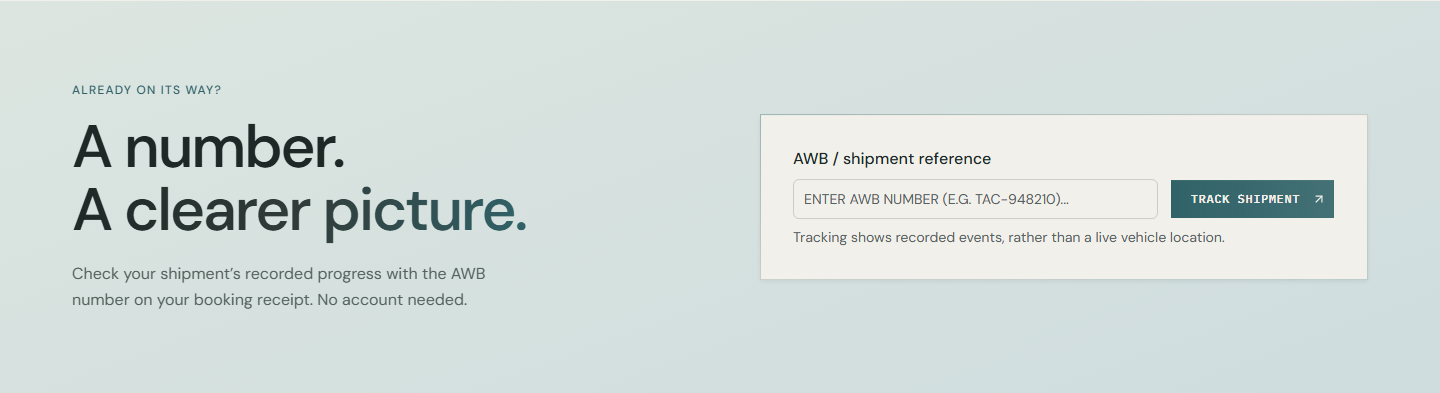
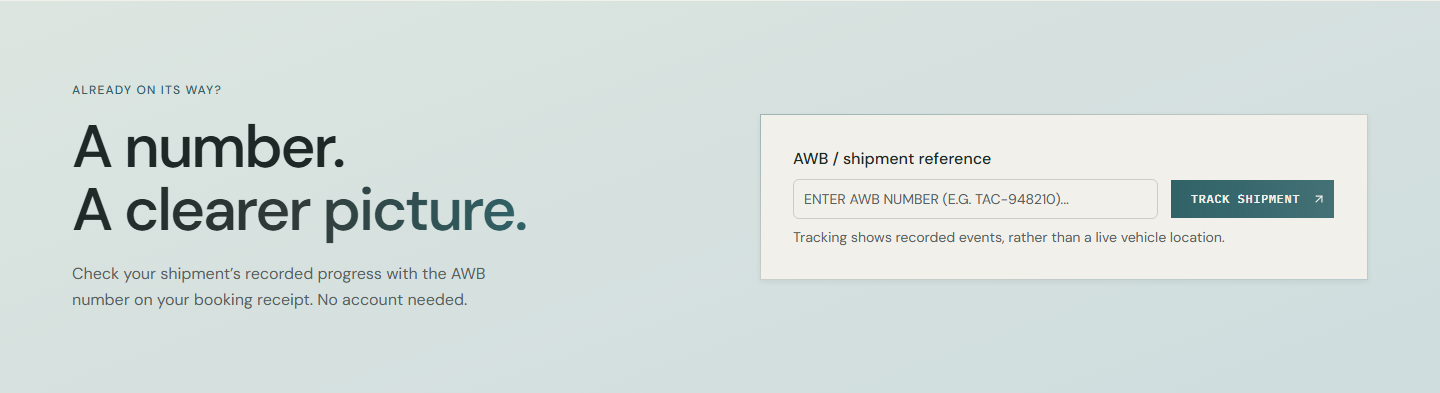
fix(ui): balance vertical rail step padding and enhance Motion scroll animations

Changed region(s): [[0.0625, 0.6718, 0.3438, 0.7939], [0.0625, 0.2137, 0.1562, 0.2443]]

diff --git a/components/public/vertical-rail.tsx b/components/public/vertical-rail.tsx
@@ -8,23 +8,48 @@ import { Check } from "lucide-react"
 /* ─────────────────────────────────────────────────────────────────────────────
    VerticalRail — track line (2px, border blend)
 ───────────────────────────────────────────────────────────────────────────── */
+/* ─────────────────────────────────────────────────────────────────────────────
+   VerticalRail — track line (2px, border blend) with animated active beam
+───────────────────────────────────────────────────────────────────────────── */
 export function VerticalRail({
   children,
   className,
+  activeStep = 0,
+  totalSteps = 4,
 }: {
   children: ReactNode
   className?: string
+  activeStep?: number
+  totalSteps?: number
 }) {
   const ref = useRef<HTMLOListElement>(null)
+  const shouldReduceMotion = useReducedMotion()
+
+  // Dynamic progress percentage along the rail track
+  const progressRatio = totalSteps > 1 ? (activeStep + 0.5) / totalSteps : 1
 
   return (
     <ol
       ref={ref}
       className={cn(
-        "cargo-rail relative ml-2 py-4 sm:ml-4 border-l-2 border-border/50",
+        "cargo-rail relative ml-2 py-2 sm:ml-4 border-l-2 border-border/40",
         className,
       )}
     >
+      {/* ── Illuminated active rail progress runner ── */}
+      <motion.div
+        aria-hidden="true"
+        className="absolute -left-[2px] top-0 w-[2px] bg-gradient-to-b from-primary via-primary to-primary/60 rounded-full"
+        initial={false}
+        animate={{
+          height: `${Math.min(100, Math.max(0, progressRatio * 100))}%`,
+        }}
+        transition={
+          shouldReduceMotion
+            ? { duration: 0 }
+            : { type: "spring", stiffness: 280, damping: 30 }
+        }
+      />
       {children}
     </ol>
   )
@@ -56,31 +81,33 @@ export function VerticalRailStep({
   return (
     <li
       className={cn(
-        "relative pb-16 pl-10 last:pb-2 sm:pl-14 transition-colors duration-300",
+        "group/step relative mb-6 last:mb-0 rounded-2xl transition-colors duration-300",
         className,
       )}
     >
-      {/* ── Active step background highlight strip with Nordic Fjord border ─────────────────────── */}
-      <div
-        aria-hidden="true"
-        className={cn(
-          "pointer-events-none absolute inset-y-0 -left-4 right-0 rounded-r-xl transition-all duration-300",
-          isActive
-            ? "bg-primary/[0.08] dark:bg-primary/[0.12] border-l-2 border-primary"
-            : "bg-transparent border-l-2 border-transparent",
-        )}
-      />
+      {/* ── Active step background highlight card with Motion layoutId ─────────────────────── */}
+      {isActive && (
+        <motion.div
+          layoutId="active-step-highlight"
+          className="pointer-events-none absolute inset-0 -left-3.5 sm:-left-4 rounded-2xl bg-primary/[0.08] dark:bg-primary/[0.14] border-l-[3px] border-primary shadow-[0_4px_24px_rgba(30,123,122,0.06)] dark:shadow-[0_8px_30px_rgba(0,0,0,0.25)]"
+          transition={
+            shouldReduceMotion
+              ? { duration: 0 }
+              : { type: "spring", stiffness: 320, damping: 32 }
+          }
+        />
+      )}
 
-      {/* ── Marker ─────────────────────────────────────────────────────── */}
+      {/* ── Marker positioned symmetrically with header line ───────────────────────────────── */}
       <span
         aria-hidden="true"
         className={cn(
-          "absolute -left-[11px] top-1 flex h-6 w-6 items-center justify-center rounded-sm transition-all duration-300 ring-4 ring-background",
+          "absolute -left-[13px] top-6 flex h-6 w-6 items-center justify-center rounded-md transition-all duration-300 ring-4 ring-background z-10",
           isActive
-            ? "bg-primary text-primary-foreground border-2 border-primary shadow-sm"
+            ? "bg-primary text-primary-foreground border-2 border-primary shadow-sm scale-105"
             : isCompleted
               ? "bg-primary/20 text-primary border-2 border-primary/50"
-              : "bg-surface text-muted-foreground border-2 border-border",
+              : "bg-surface text-muted-foreground border-2 border-border/80",
         )}
       >
         {isCompleted ? (
@@ -88,7 +115,7 @@ export function VerticalRailStep({
         ) : (
           <span
             className={cn(
-              "size-2 transition-transform duration-300 rounded-none",
+              "size-2 transition-transform duration-300 rounded-xs",
               isActive ? "bg-primary-foreground scale-100" : "bg-muted-foreground/60 scale-75",
             )}
           />
@@ -97,11 +124,11 @@ export function VerticalRailStep({
         {/* Pulsing ring — only on currently active step */}
         {isActive && !shouldReduceMotion && (
           <motion.span
-            className="absolute inset-0 rounded-sm border-2 border-primary pointer-events-none"
+            className="absolute inset-0 rounded-md border-2 border-primary pointer-events-none"
             initial={{ scale: 1, opacity: 0.8 }}
             animate={{ scale: 2.1, opacity: 0 }}
             transition={{
-              duration: 1.4,
+              duration: 1.5,
               ease: "easeOut",
               repeat: Infinity,
               repeatDelay: 0.5,
@@ -110,12 +137,12 @@ export function VerticalRailStep({
         )}
       </span>
 
-      {/* ── Content ────────────────────────────────────────────────────── */}
-      <div className="flex flex-col gap-3 md:max-w-xl">
+      {/* ── Content Container with Generous, Balanced Vertical Padding (24px top & bottom) ──── */}
+      <div className="relative z-10 flex flex-col gap-3 py-6 pl-10 pr-4 sm:pl-14 sm:pr-6 md:max-w-xl">
         {/* Step number */}
         <span
           className={cn(
-            "font-mono text-xs font-bold tracking-[0.15em] uppercase transition-colors duration-300",
+            "font-mono text-xs font-bold tracking-[0.15em] uppercase transition-colors duration-300 leading-normal",
             isActive ? "text-primary" : "text-muted-foreground",
           )}
         >
@@ -125,7 +152,7 @@ export function VerticalRailStep({
         {/* Title */}
         <h3
           className={cn(
-            "text-2xl font-semibold tracking-tight transition-all duration-300",
+            "text-2xl font-semibold tracking-tight transition-colors duration-300",
             isActive
               ? "text-foreground font-bold"
               : "text-foreground/80",
@@ -137,7 +164,7 @@ export function VerticalRailStep({
         {/* Body */}
         <p
           className={cn(
-            "leading-relaxed text-sm sm:text-base transition-all duration-300",
+            "leading-relaxed text-sm sm:text-base transition-colors duration-300",
             isActive ? "text-foreground/90 font-normal" : "text-muted-foreground",
           )}
         >

diff --git a/components/public/shipping-steps.tsx b/components/public/shipping-steps.tsx
@@ -21,17 +21,18 @@ export function ShippingSteps() {
       const stepEls = rail.querySelectorAll<HTMLLIElement>("li")
       if (!stepEls.length) return
 
-      // Ergonomic focal point: 42% down the viewport, exactly where user reads content
-      const focalY = window.innerHeight * 0.42
+      // Ergonomic focal point: 44% down the viewport, exactly where user reads content
+      const focalY = window.innerHeight * 0.44
 
       let bestIndex = 0
       let minDistance = Infinity
 
       stepEls.forEach((el, index) => {
         const rect = el.getBoundingClientRect()
-        // Check distance of step from focal line
-        const distance = Math.abs(rect.top - focalY)
-        if (rect.top <= focalY + 140 && distance < minDistance) {
+        // Compute distance from vertical center of each step card to focal line
+        const stepCenter = rect.top + rect.height * 0.5
+        const distance = Math.abs(stepCenter - focalY)
+        if (distance < minDistance) {
           minDistance = distance
           bestIndex = index
         }
@@ -128,19 +129,24 @@ export function ShippingSteps() {
                     type="button"
                     onClick={() => scrollToStep(i)}
                     aria-label={`Step ${i + 1}: ${step.title}`}
-                    className="flex w-full items-center gap-3 text-left group/pill cursor-pointer focus-visible:outline-none focus-visible:ring-2 focus-visible:ring-primary rounded-sm py-1 transition-opacity hover:opacity-90"
+                    className="flex w-full items-center gap-3 text-left group/pill cursor-pointer focus-visible:outline-none focus-visible:ring-2 focus-visible:ring-primary rounded-md py-1.5 px-2 transition-all hover:bg-muted/30"
                   >
-                    {/* Progress bar */}
-                    <span
-                      className={cn(
-                        "block h-[3px] flex-1 rounded-full origin-left transition-all duration-300",
-                        isCurrent
-                          ? "bg-primary scale-x-100"
-                          : isPassed
-                            ? "bg-primary/50 scale-x-100"
-                            : "bg-border scale-x-50"
-                      )}
-                    />
+                    {/* Progress bar container */}
+                    <div className="relative h-[3px] flex-1 bg-border/60 rounded-full overflow-hidden">
+                      <motion.div
+                        className="absolute inset-y-0 left-0 bg-primary rounded-full origin-left"
+                        initial={false}
+                        animate={{
+                          width: isCurrent ? "100%" : isPassed ? "100%" : "25%",
+                          opacity: isCurrent ? 1 : isPassed ? 0.6 : 0.25,
+                        }}
+                        transition={
+                          shouldReduceMotion
+                            ? { duration: 0 }
+                            : { type: "spring", stiffness: 350, damping: 30 }
+                        }
+                      />
+                    </div>
 
                     {/* Step label */}
                     <span
@@ -150,7 +156,7 @@ export function ShippingSteps() {
                           ? "text-primary font-bold"
                           : isPassed
                             ? "text-foreground font-semibold"
-                            : "text-muted-foreground"
+                            : "text-muted-foreground",
                       )}
                     >
                       {`0${i + 1}`}
@@ -183,7 +189,7 @@ export function ShippingSteps() {
 
         {/* ── Right: Rail ─────────────────────────────────────────────── */}
         <div ref={railRef} className="mt-16 lg:mt-0">
-          <VerticalRail>
+          <VerticalRail activeStep={activeStep} totalSteps={bookingSteps.length}>
             {bookingSteps.map((step, index) => (
               <VerticalRailStep
                 key={step.title}
